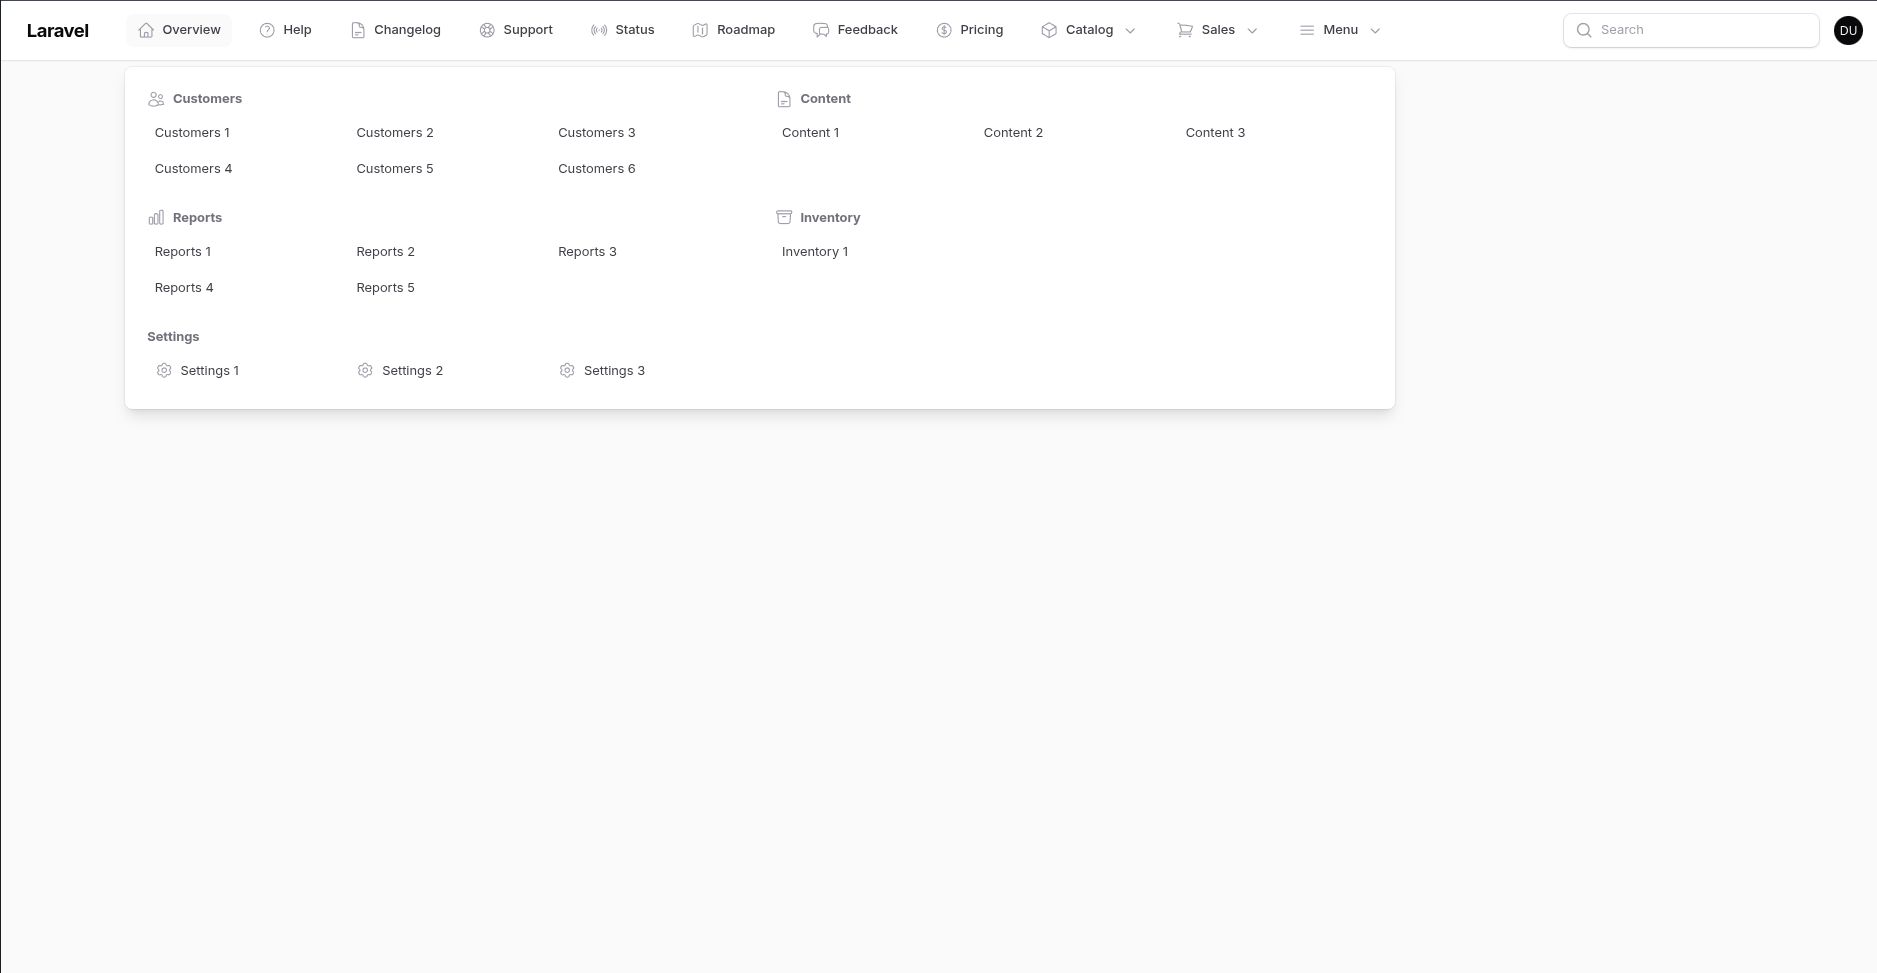
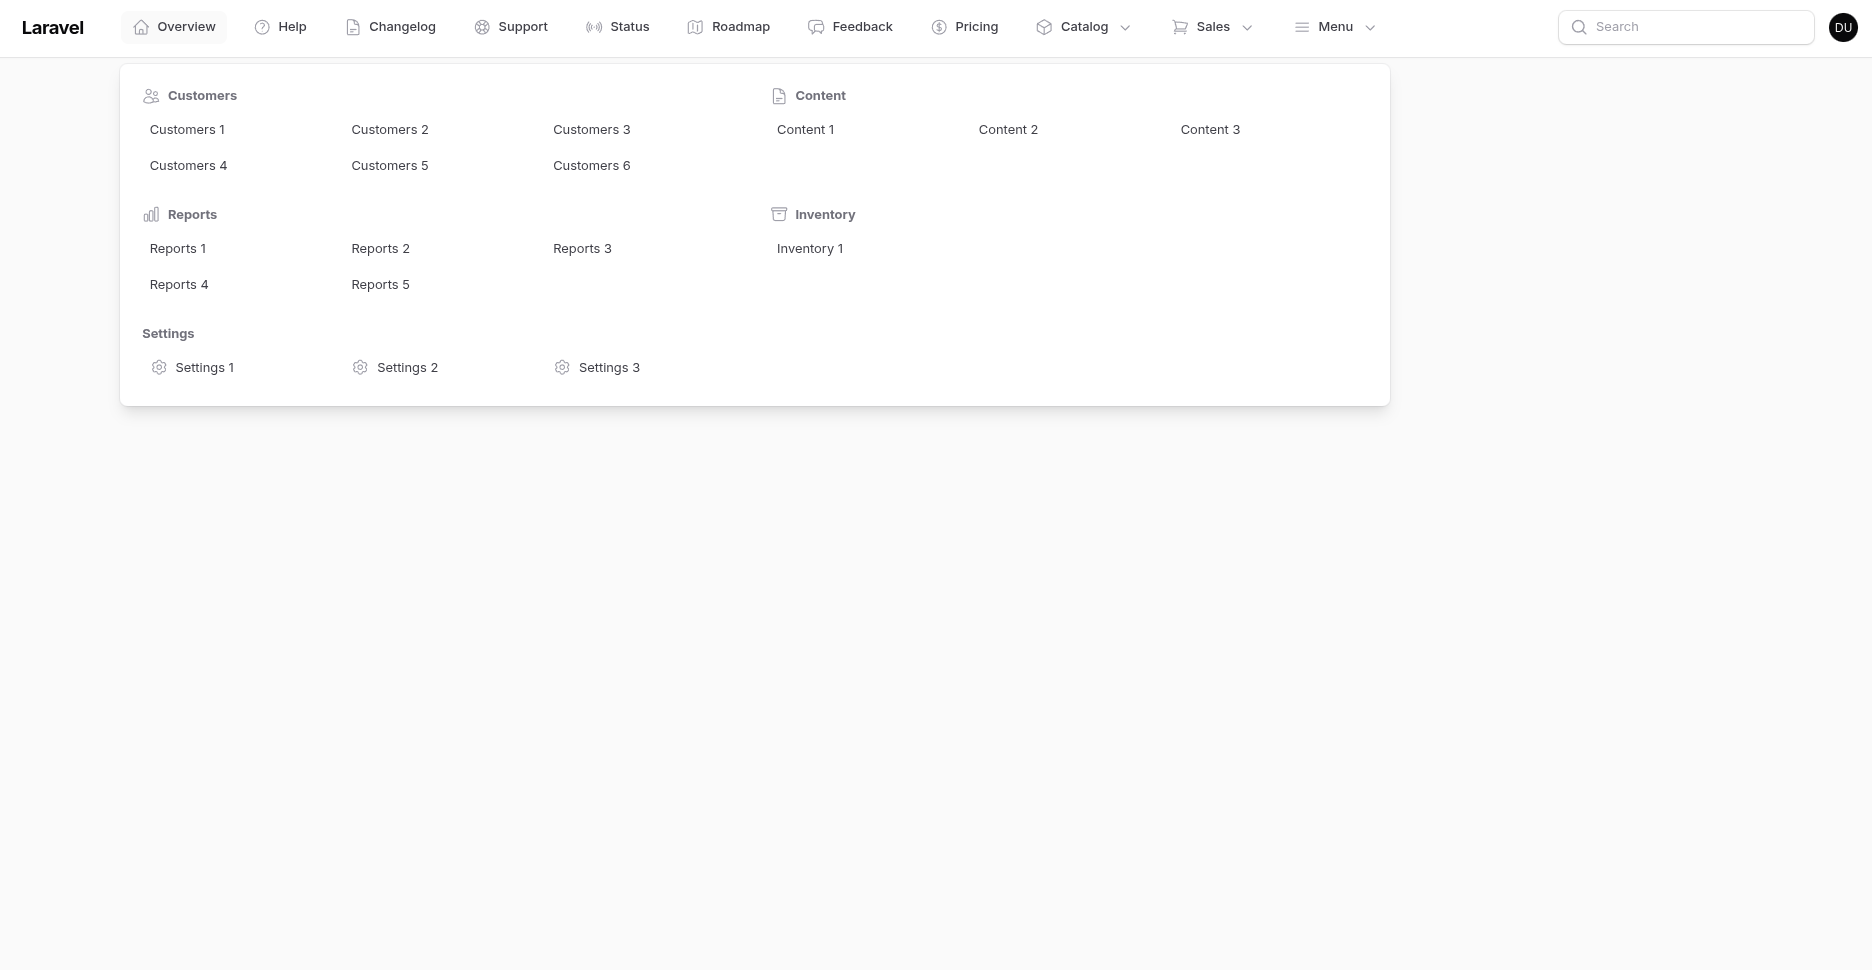
chore: menyiapkan rilis pertama 1.0.0

diff --git a/CHANGELOG.md b/CHANGELOG.md
@@ -1,0 +1,36 @@
+# Changelog
+
+All notable changes to this project are documented here.
+
+The format is based on [Keep a Changelog](https://keepachangelog.com/en/1.1.0/),
+and this project adheres to [Semantic Versioning](https://semver.org/spec/v2.0.0.html).
+
+## [1.0.0] - 2026-11-08
+
+First release.
+
+### Added
+
+- Mega menu panel for topbar navigation groups, opened from a normal topbar item
+  so the topbar stays one row tall. The trigger stays hidden while every group
+  still fits on one row.
+- `FilamentMegaMenuPlugin` options: `label()`, `icon()`, `layout()`, `columns()`,
+  `itemColumns()` and `ungroupedColumns()`.
+- `horizontal` layout puts one navigation group per column; `vertical` stacks the
+  groups and flows each group's items across the panel. The grid drops to a
+  single column below 640px.
+- Navigation items registered without a group get their own row above the grouped
+  columns.
+- Workbench sandbox panel with the full auth middleware stack, the user menu with
+  its theme switcher, and a `UserResource` for the global search.
+
+### Changed
+
+- Columns are read from `filament()->getNavigation()`, so the menu always mirrors
+  the panel's own resources and pages.
+- Styling uses Filament's CSS variables and plain CSS scoped to `.fmm-*`, so no
+  Tailwind `@source` step is needed and dark mode follows the panel.
+- On a desktop-width screen the panel matches the width of the topbar navigation
+  it hangs from; below that it spans the viewport.
+
+[1.0.0]: https://github.com/ikhbarnuridev/filament-mega-menu/releases/tag/v1.0.0
